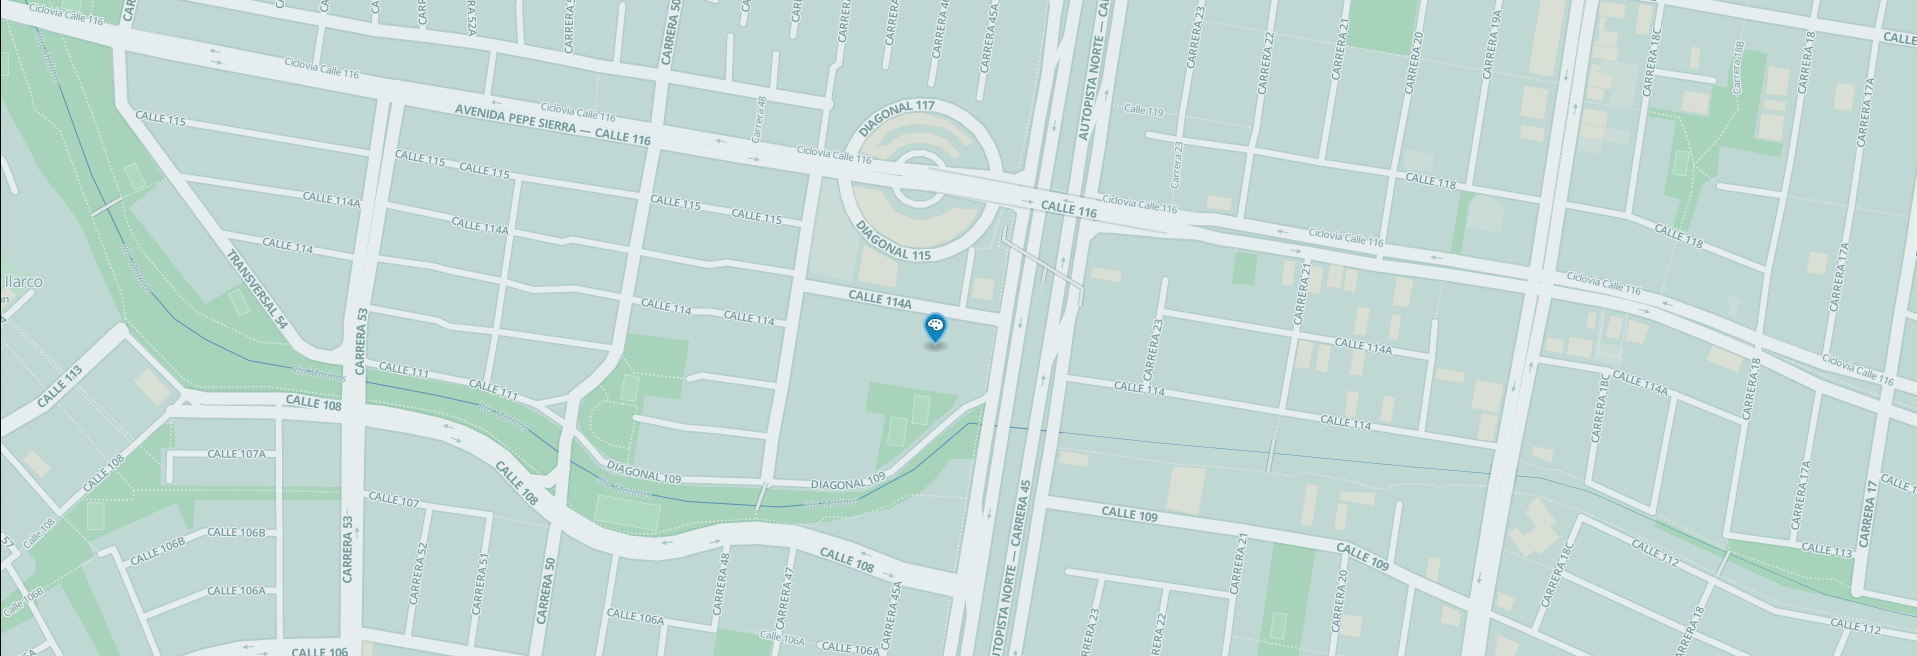
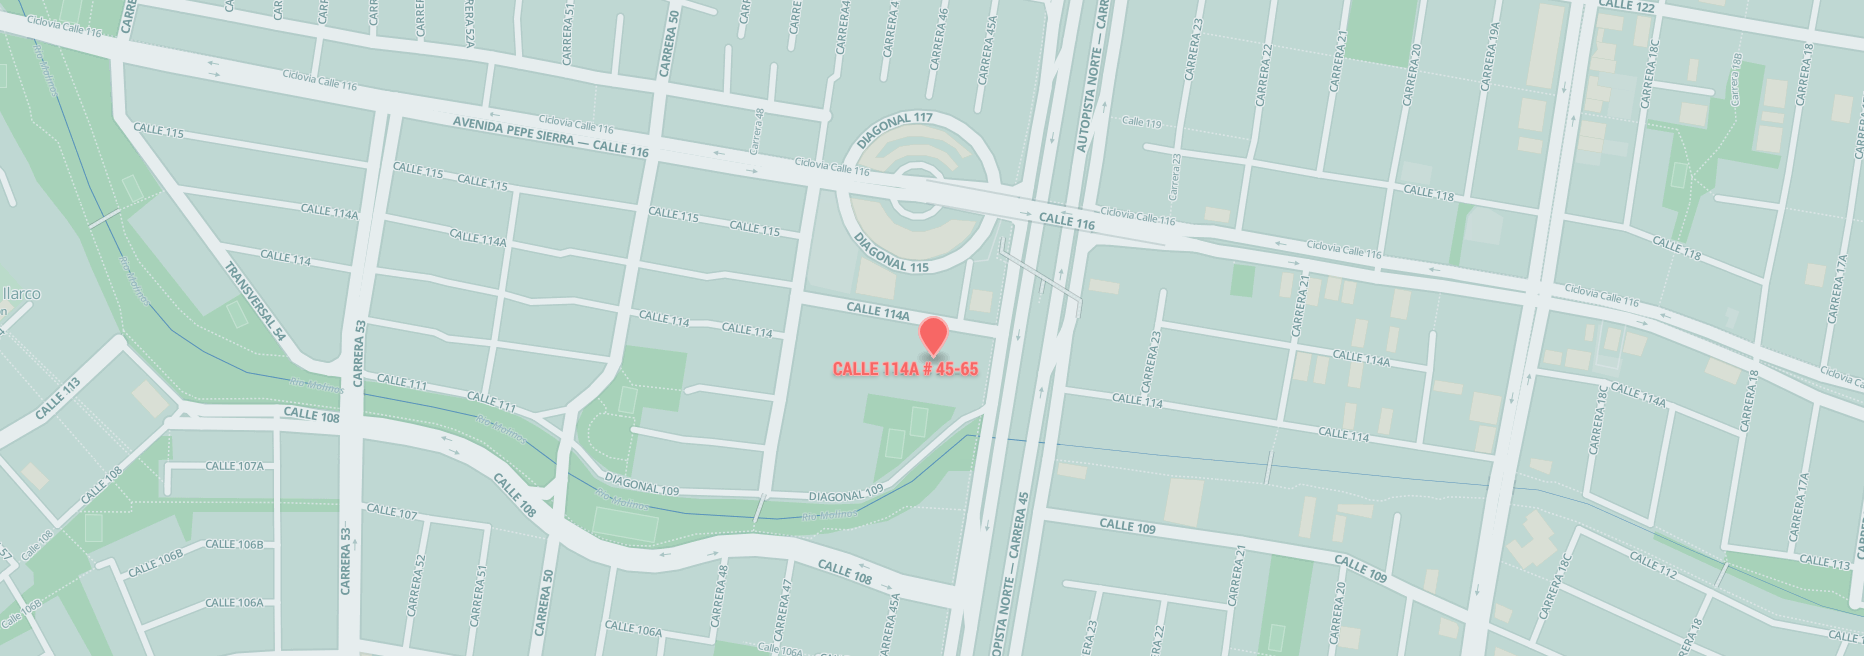
Changed copy, improved map image.

diff --git a/app/index.html b/app/index.html
@@ -3,9 +3,9 @@
   <head>
     <meta charset="utf-8">
     <meta http-equiv="X-UA-Compatible" content="IE=edge">
-    <meta name="description" content="A front-end template that helps you build fast, modern mobile web apps.">
+    <meta name="description" content="Un Open Device Lab en Bogotá, Colombia. Haz pruebas en dispositivos Android, iOS, FirefoxOS y Windows Phone">
     <meta name="viewport" content="width=device-width, initial-scale=1">
-    <title>Device Lab - Simian</title>
+    <title>Simianlab – Device Lab en Bogotá</title>
 
     <!-- Add to homescreen for Chrome on Android -->
     <meta name="mobile-web-app-capable" content="yes">
@@ -37,8 +37,12 @@
         <div class="page-header">
             <div class="container">
                 <img src="images/logo-simianlab.svg" alt="Simianlab" />
-                <h3 class="xxlarge text-divider">Lorem Ipsum, tenemos celulares</h3>
-                <p class="page-header__excerpt g-wide--push-1 g-wide--pull-1">Hola mundo!</p>
+                <h3 class="xxlarge text-divider">
+                  Un Open Device Lab en Bogotá
+                </h3>
+                <p class="page-header__excerpt g-wide--push-1 g-wide--pull-1">
+                  Ven a probar tus sitios y aplicaciones en nuestro laboratorio de dispositivos Android, iOS, FirefoxOS y Windows Phone.
+                </p>
             </div>
         </div>
       </section>
@@ -101,10 +105,10 @@
       </main>
 
       <div class="highlight-module  highlight-module--right   highlight-module--remember">
-        <div class="highlight-module__container  icon-exclamation ">
+        <div class="highlight-module__container  icon-chevron-left ">
             <div class="highlight-module__content   g-wide--push-1 g-wide--pull-1  g-medium--pull-1   ">
-                <p class="highlight-module__title">¡Usarlo es gratis!</p>
-                <p class="highlight-module__text"> * Aunque aceptamos donaciones de dispositivos :) </p>
+                <p class="highlight-module__title">¡Usarlo es gratis*!</p>
+                <p class="highlight-module__text"> * El Simianlab usa dispositivos donados por la comunidad. Si tienes un dispositivo que no uses a diario y que podrías contribuir, ayudarías a toda la comunidad de Bogotá. </p>
             </div>
         </div>
       </div>
@@ -112,29 +116,94 @@
     <section class="styleguide__editorial-header">
       <div class="editorial-header">
         <div class="container">
-            <h1 class="tag editorial-header__title">Device Lab</h1>
-            <h2 class="editorial-header__subtitle">¿Cómo se usa?</h2>
-            <p class="editorial-header__excerpt g-wide--pull-1">Lorem ipsum dolor sit amet, consectetur adipiscing elit. Sed vitae varius augue, eu varius dolor. Sed vitae varius augue, eu varius dolor. </p>
-            <p class="g-wide--pull-1">Lorem ipsum dolor sit amet, consectetur adipiscing elit. Sed vitae varius augue, eu varius dolor. Donec augue diam, scelerisque eget lectus in, posuere aliquet mi. Pellentesque suscipit nisl gravida sem tincidunt, id blandit turpis commodo.</p>
+            <h1 class="tag editorial-header__title">Reglas de uso</h1>
+            <h2 class="editorial-header__subtitle">¿Cómo puedo usarlo?</h2>
+            <p class="editorial-header__excerpt g-wide--pull-1">
+              El Device Lab es un espacio de pruebas abierto a cualquier persona que necesite hacer pruebas de sitios y aplicaciones en dispositivos modernos conectados a Internet.
+            </p>
+            <p class="g-wide--pull-1">
+              No importa si eres estudiante, freelancer, desarrollador para una compañía o diseñador en una agencia, aquí tienes un espacio para mejorar la calidad de tus productos sin gastar cantidades gigantes de dinero comprando cada nuevo dispositivo en el mercado.
+            </p>
+            <p class="g-wide--pull-1">
+              Si quieres hacer uso del Device Lab escríbenos a <a href="mailto:info@simianlab.com" >info@simianlab.com</a> o llamarnos al <a href="tel:3115992255">311–5992255</a> para agendar tu visita.
+            </p>
         </div>
       </div>
     </section>
 
-    <section class="styleguide__editorial-header where">
-      <div class="editorial-header">
+    <section class="where">
+      <div class="another">
         <div class="container">
-            <h1 class="tag editorial-header__title">Device Lab</h1>
+            <h1 class="tag editorial-header__title">Ubicación y horarios</h1>
             <h2 class="editorial-header__subtitle">¿Dónde está?</h2>
-            <p>Nos puedes escribir a <a href="mailto:info@simianlab.com" >info@simianlab.com</a> o seguirnos en <a href="https://twitter.com/intent/user?screen_name=simianlab" target="blank" >@simianlab</a>.</p>
+            <p>El device lab está ubicado por la calle 116 con Autopista Norte, al frente de Carulla de Alhambra.</p>
         </div>
       </div>
-      <a href="https://plus.google.com/+SimianCoAlhambra" class="simian-map" target="blank" ></a>
+
+      <a href="https://plus.google.com/+SimianCoAlhambra" class="simian-map" target="blank" >&nbsp;</a>
+
+      <div class="container">
+          <p>
+            <strong>Dirección:</strong> Calle 114A #45-65 – Ap. 5-501 – Santamaría del Alcázar.
+          </p>
+          <p>
+            <strong>Horario:</strong> El device lab está abierto al público de 9am a 5pm de lunes a viernes.
+          </p>
+          <p>
+            <strong>Indicaciones:</strong> Estamos en una de las oficinas de <a href="http://simian.co" target="_blank">Simian</a>, una cuadra al sur de la Calle 116. Nos encuentras justo al frente de la entrada de Carulla de Alhambra.
+          </p>
+          <p>
+            Puedes llegar en Transmilenio (la estación <em>Pepe Sierra</em> queda a 1 cuadra) o en tu carro, moto o bicicleta.
+          </p>
+      </div>
     </section>
+
+    <div class="container">
+      <a name="guides-intro"></a>
+      <h2 class="subsection-title">Cuéntale a tus amigos</h2>
+      <p>
+        Mientras más personas conozcan el device lab y lo usen, más empresas y organizaciones se motivarán a ayudarnos para construir un mejor ambiente de pruebas.
+      </p>
+    </div>
+
+    <section class="styleguide__centered-list">
+        <div class="container">
+          <ul class="list-guides-intro list-centered list--reset clear">
+            <li class="g-medium--half g-wide--1 theme--multi-device-layouts  ">
+              <a href="#ignore-click" class="themed">
+                <span class="icon-circle--large themed--background"><i class="icon icon-multi-device-layouts"></i></span>
+                <h3 class="large text-divider">Facebook</h3>
+              </a>
+            </li>
+            <li class="g-medium--half g-wide--1 theme--introduction-to-media g-medium--last ">
+              <a href="#ignore-click" class="themed">
+                <span class="icon-circle--large themed--background"><i class="icon icon-introduction-to-media"></i></span>
+                <h3 class="large text-divider">Twitter</h3>
+              </a>
+            </li>
+            <li class="g-medium--half g-wide--1 theme--user-input  ">
+              <a href="#ignore-click" class="themed">
+                <span class="icon-circle--large themed--background"><i class="icon icon-user-input"></i></span>
+                <h3 class="large text-divider">Google+</h3>
+              </a>
+            </li>
+            <li class="g-medium--half g-wide--1 theme--performance g-medium--last  g-wide--last ">
+              <a href="#ignore-click" class="themed">
+                <span class="icon-circle--large themed--background"><i class="icon icon-performance"></i></span>
+                <h3 class="large text-divider">LinkedIn</h3>
+              </a>
+            </li>
+          </ul>
+        </div>
+      </section>
 
     <footer>
       <div class="container">
         <p>Esta es una iniciativa de </p>
         <a href="http://simian.co/" target="blank" ><img src="images/logo-simian.svg" alt="Simian" ></a>
+      </div>
+      <div class="container">
+        <p>Nos puedes escribir a <a href="mailto:info@simianlab.com" >info@simianlab.com</a> o seguirnos en <a href="https://twitter.com/intent/user?screen_name=simianlab" target="blank" >@simianlab</a>.</p>
       </div>
     </footer>
 
